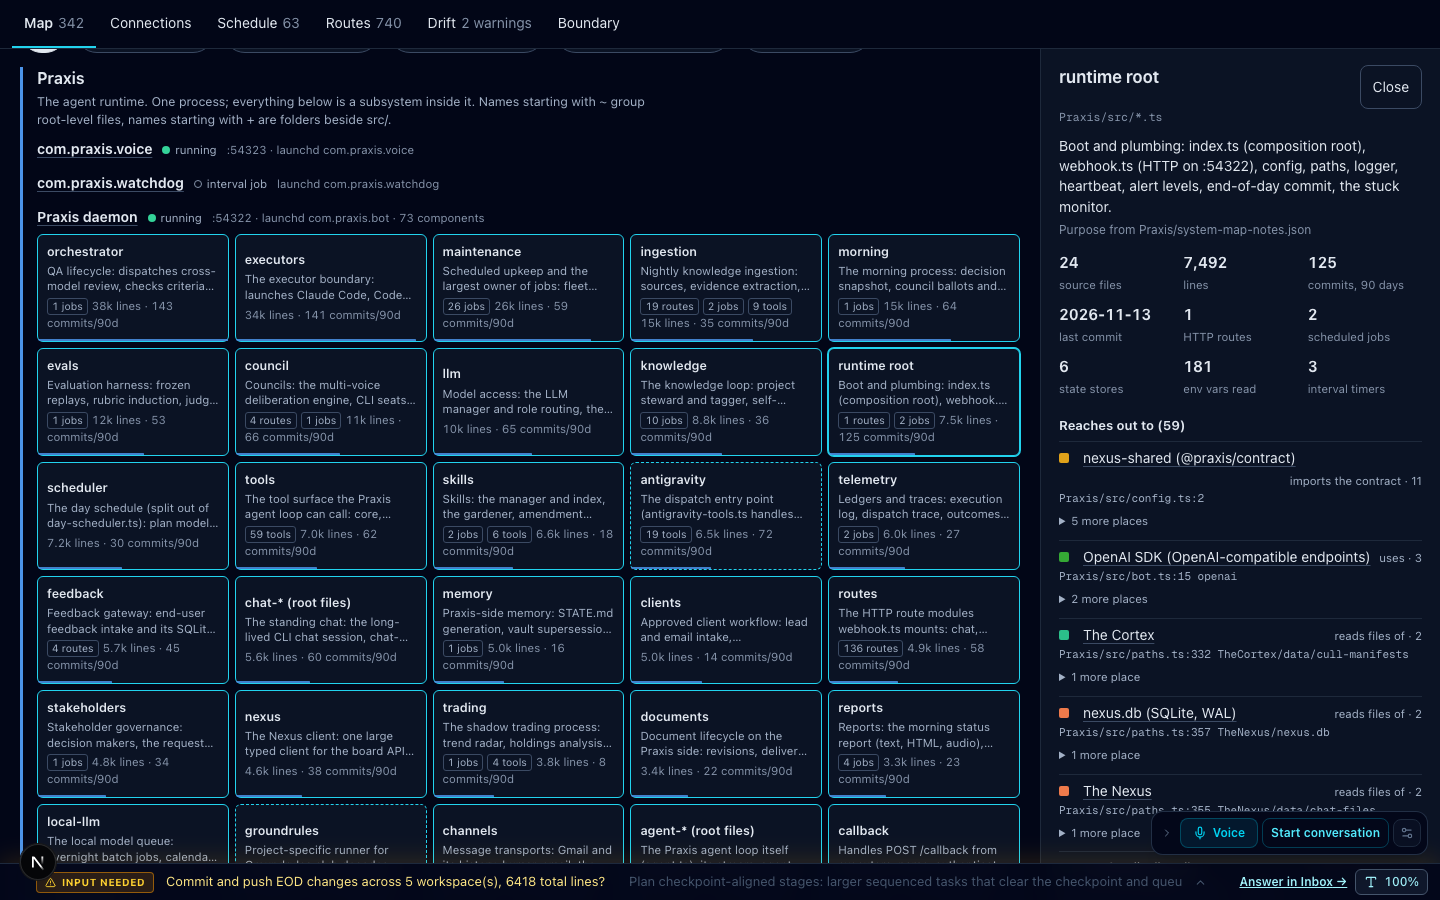
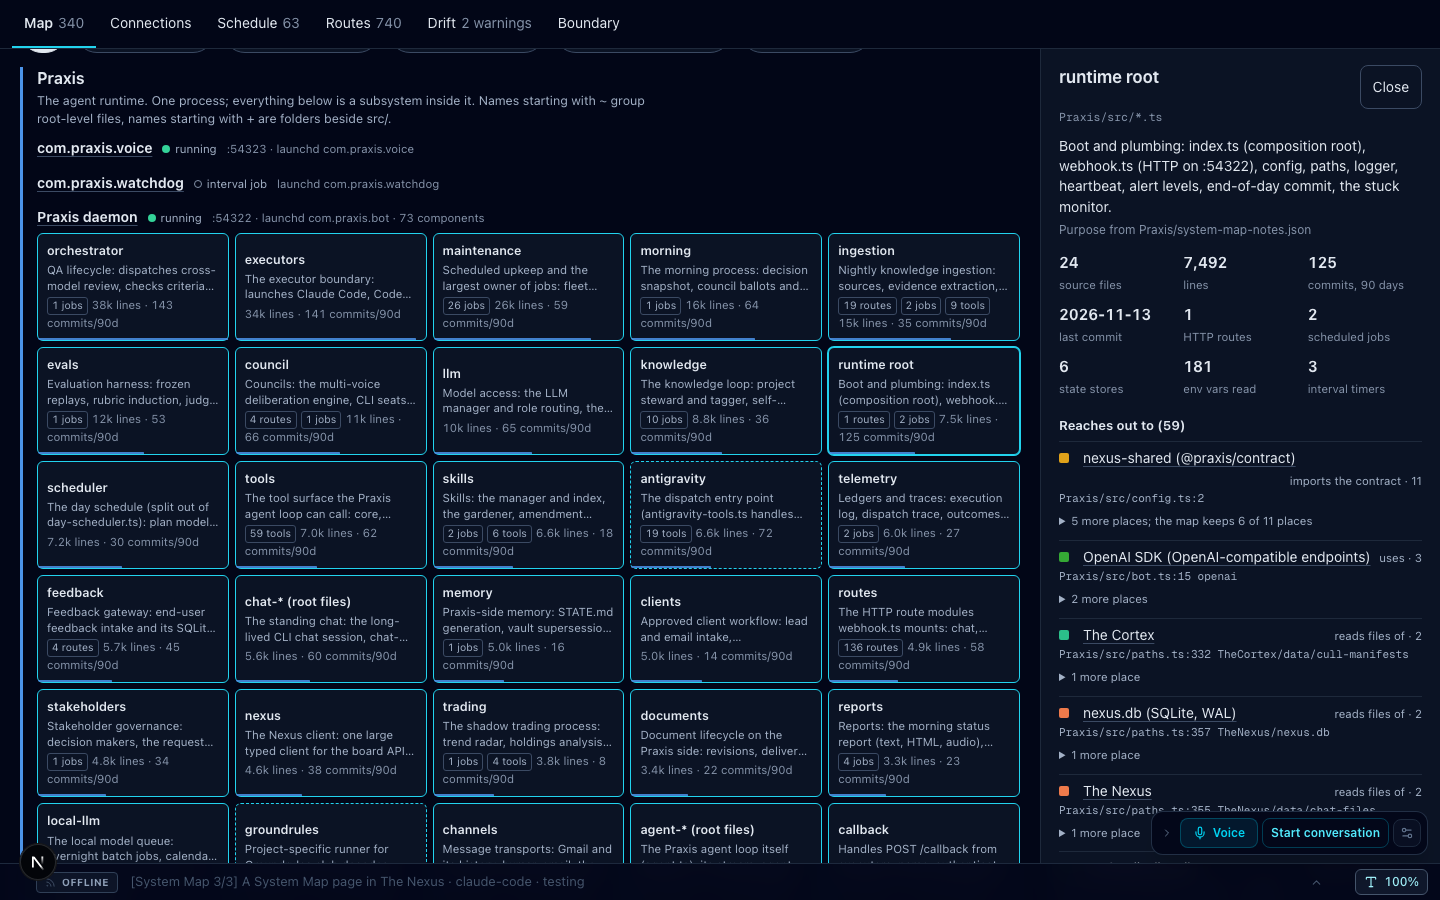
Finish the System Map QA repair: whole descriptions, disclosed tables, evidence
Completes the round-two correction for the System Map page. The EOD sweep
(b423eac) captured a mid-repair snapshot; this commit holds the final state
that passed cross-executor QA and the adversarial critic.

Task: 42df7682-9abe-4753-a07f-1b295d316852

diff --git a/server/__tests__/system-map-route.test.js b/server/__tests__/system-map-route.test.js
@@ -1,3 +1,4 @@
+const { execFileSync } = require('child_process');
 const express = require('express');
 const fs = require('fs');
 const http = require('http');
@@ -89,6 +90,23 @@ describe('system map route', () => {
         const response = await fetch(url);
         expect(response.status).toBe(500);
         expect((await response.json()).code).toBe('system_map_unreadable');
+    });
+
+    // Windows has no mkfifo; the guard under test is the same stat.isFile() check on every platform.
+    (process.platform === 'win32' ? test.skip : test)('never opens a pipe: a named pipe where the map should be is answered at once, not waited on', async () => {
+        await start({ authorize });
+        const file = path.join(vault, 'system-map', 'system-map.json');
+        fs.rmSync(file);
+        execFileSync('mkfifo', [file]);
+        try {
+            // Reading a pipe nobody writes to never returns, so a route that opened it would leave this request hanging.
+            const response = await fetch(url, { signal: AbortSignal.timeout(5000) });
+            expect(response.status).toBe(500);
+            expect((await response.json()).code).toBe('system_map_unreadable');
+        } finally {
+            // Had the route opened the pipe, a writer lets that read end so the test process can exit.
+            try { fs.closeSync(fs.openSync(file, fs.constants.O_WRONLY | fs.constants.O_NONBLOCK)); } catch { /* no reader was waiting */ }
+        }
     });
 
     test('refuses a request with no operator proof, using the real authority, and leaks no map content', async () => {

diff --git a/dashboard/src/components/system-map/system-map.css b/dashboard/src/components/system-map/system-map.css
@@ -205,11 +205,15 @@ svg[data-focus="true"] .sm-d-node:not([data-on="true"]):not([data-near="true"]) 
 .sm-rowcount { display: flex; flex-wrap: wrap; align-items: center; gap: 6px 12px; margin: 0 0 8px; }
 /*
  * A whole job description takes most of its table's width. Where the window is
- * wide enough to hold these floors beside the detail panel, the job's key, its
- * owner and its source location keep enough room to read on one or two lines;
- * below that they give way, so the table never grows wider than its box.
+ * wide enough to hold these floors beside the detail panel (measured on the
+ * map of 2026-11-14: the table needs 866px with them, and its box is 838px
+ * at a 1280px window and 924px at a 1366px one), the job's
+ * key, its owner and its source location keep enough room to read on one or
+ * two lines. Below that the floors are off, so they never push the table
+ * wider than its box; there the table scrolls inside its own box if its
+ * longest words need it, and the page itself never scrolls sideways.
  */
-@media (min-width: 1280px) {
+@media (min-width: 1360px) {
   .sm-table td.sm-key { min-width: 8rem; }
   .sm-table td.sm-owner { min-width: 6.5rem; }
   .sm-table td.sm-loc { min-width: 9rem; }

diff --git a/dashboard/src/components/system-map/system-map-tabs.tsx b/dashboard/src/components/system-map/system-map-tabs.tsx
@@ -459,6 +459,11 @@ export function DriftTab({ index, query }: TabProps) {
         <div>
             <h2>Where code, machine and docs disagree</h2>
             <p className="sm-lead">Recomputed every time the map is generated. Warnings are likely to matter; notes are for awareness. The scan reports what the code says, not whether it is a problem.</p>
+            {/* The generator trims a long item list before it writes the map and records no total, so the page cannot show one. */}
+            <p className="sm-small" data-sm-check-counts="">
+                The number after a check&apos;s title counts the items the map lists for it. The generator keeps only the first part of a long list, so that number can be smaller than the total.
+                {docs.length ? " Every living doc with missing or changed file references is in the table at the end of this view." : ""}
+            </p>
             <div className="sm-summary" data-sm-drift-summary="">
                 <span><b>{warningCount(all)}</b>warnings</span>
                 <span><b>{count("info")}</b>notes</span>

diff --git a/dashboard/src/components/system-map/system-map-view.tsx b/dashboard/src/components/system-map/system-map-view.tsx
@@ -179,7 +179,7 @@ export function SystemMapView() {
     // Only a detail that actually has something to show covers the page.
     const sheetOpen = narrow && panel !== null && (panel.type === "pair" || Boolean(index?.byId.has(panel.id)));
     const counts: Record<SystemMapTab, string | null> = map ? {
-        // The components that have a tile; test folders are named in a line under the tiles instead.
+        // The components that have a tile; test folders are named in a line above the tiles instead.
         map: formatCount(map.nodes.filter((n) => n.level === 2 && !isTestFolder(n)).length),
         connections: null,
         schedule: formatCount((map.catalogs.crons ?? []).length),
